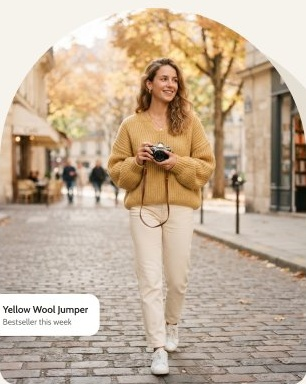
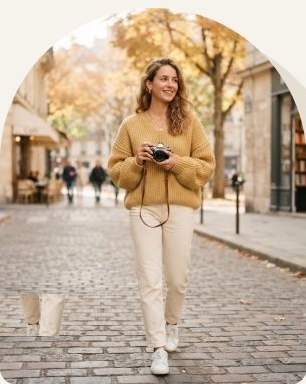
fix(hero): link floating badge dynamically to real store product and remove background ghost badge

Changed region(s): [[0.0, 0.75, 0.3529, 0.875]]

diff --git a/preview-loomhaus.html b/preview-loomhaus.html
@@ -528,14 +528,15 @@
             <div class="loomhaus-hero__arch-frame">
               <img src="./assets/loomhaus-model.jpg" alt="The Winter Edit Model" class="loomhaus-hero__image">
             </div>
-            <a href="#" class="loomhaus-product-badge">
+            <a href="#featured-product-showcase" class="loomhaus-product-badge" title="Open product: Classic Black Bag">
               <div class="loomhaus-product-badge__thumb">
-                <img src="./assets/loomhaus-thumb.jpg" alt="Yellow Wool Jumper">
+                <img src="./assets/loomhaus-thumb.jpg" alt="Classic Black Bag">
               </div>
               <div class="loomhaus-product-badge__info">
-                <span class="loomhaus-product-badge__title">Yellow Wool Jumper</span>
+                <span class="loomhaus-product-badge__title">Classic Black Bag</span>
                 <span class="loomhaus-product-badge__subtitle">Bestseller this week</span>
               </div>
+              <span class="loomhaus-product-badge__arrow" aria-hidden="true">&rarr;</span>
             </a>
           </div>
         </div>
